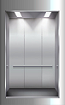
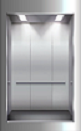
ElevatorSystem and SensorController connected to Pygame Simulation

diff --git a/Main.py b/Main.py
@@ -30,7 +30,7 @@ display_color = white
 back_x = (display_width * 0.20)
 back_y = (display_height*0.0005)
 elev_y = (display_height * 0.780)
-elev_x = (display_width * 0.335)
+elev_x = (display_width * 0.320)
 
 #speed of car
 y_change = 3
@@ -57,8 +57,8 @@ def check_emergency():
 sys.add_request("move", 5, "firefighter")
 sys.add_request("move", 3, "passenger")
 sys.add_request("move", 2, "firefighter")
-#speed = sys.get_sensor_controller().get_speed()
-#sys.get_sensor_controller().set_sensor_measure(speed, 90)
+speed = sys.get_sensor_controller().get_speed()
+sys.get_sensor_controller().set_sensor_measure(speed, 90)
 
 #Main simulation loop
 while not crashed:
@@ -104,6 +104,7 @@ while not crashed:
 
     game_object(back_x, back_y, fore_img)
     game_object(elev_x, elev_y, elev_img)
+    print("Emergency: " + str(sys.get_emergency()))
     check_emergency()
 
 

diff --git a/ElevatorSystem.py b/ElevatorSystem.py
@@ -91,7 +91,7 @@ class ElevatorSystem:
         return self.emergency
 
     def check_movement(self):
-        if not self.car.get_move() or self.is_safe():
+        if not self.car.get_move() and self.is_safe():
             if self.check_sensor("position"):
                 self.open_door()
             else:
